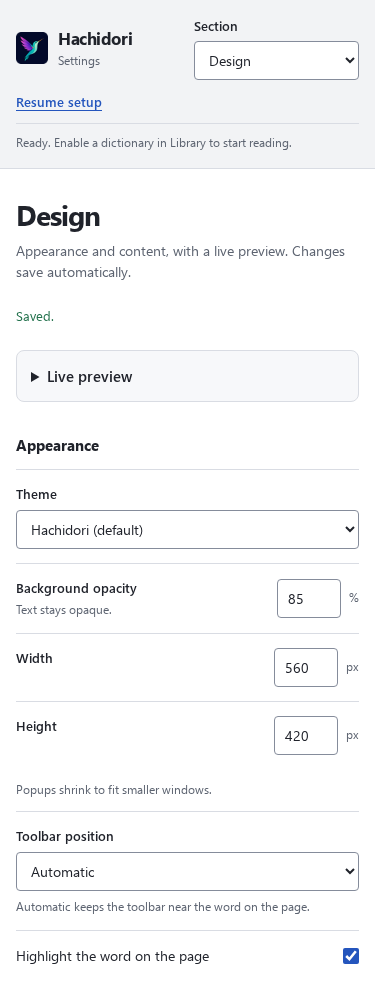
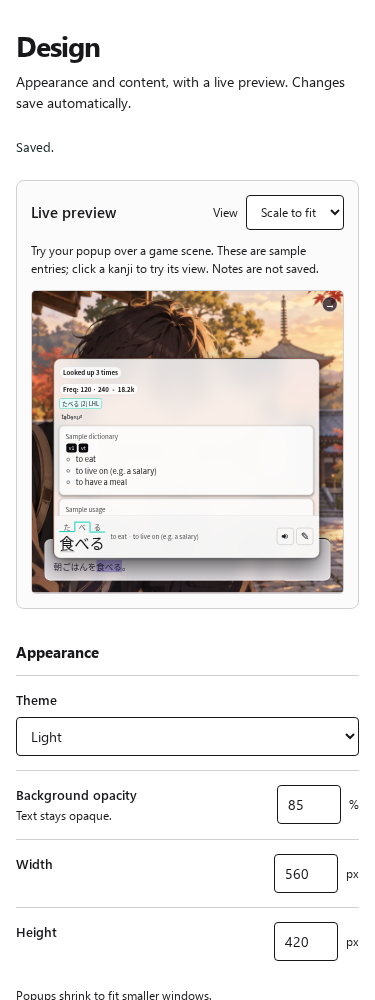
docs: show the always-visible live preview in the Settings review
Claude-Session: https://claude.ai/code/session_01FzgEJ3W7NkhsmoeCo7hpeK

diff --git a/docs/settings-ui-review.md b/docs/settings-ui-review.md
@@ -8,7 +8,7 @@ Source attribution and the compatible text-receiver protocol remain intact.
 
 Lookup history and definition blur live in **Reading**. **Design** concentrates
 on appearance and definition presentation, with wider selectors, compact numeric
-rows and a collapsible live preview. Reset Design preserves the Reading rules.
+rows and a live preview that is always shown. Reset Design preserves the Reading rules.
 The selected lookup theme now colours the complete Settings document as well as
 the lookup and preview.
 Threshold/reveal details and custom CSS use native disclosures. Narrow windows
@@ -63,7 +63,7 @@ separates supporting text from the primary content without changing the other
 
 | Desktop Design | Narrow Design |
 | --- | --- |
-| ![Design with full-width selectors and live preview](assets/settings-design-1440-dark.png) | ![Compact navigation and collapsed preview at 375 pixels](assets/settings-design-375-light.png) |
+| ![Design with full-width selectors and live preview](assets/settings-design-1440-dark.png) | ![Compact navigation and the live preview above the controls at 375 pixels](assets/settings-design-375-light.png) |
 
 ![Reading with local lookup history and definition blur](assets/settings-reading.png)
 
